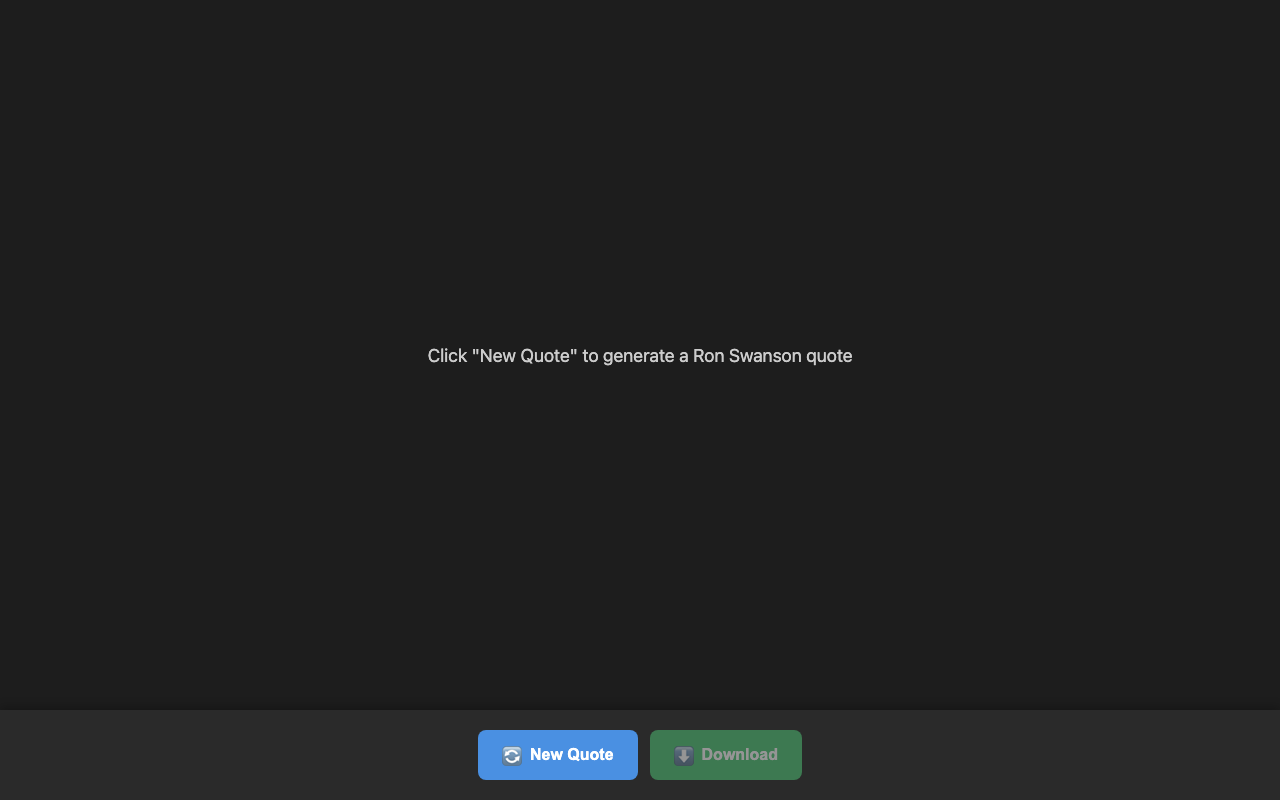
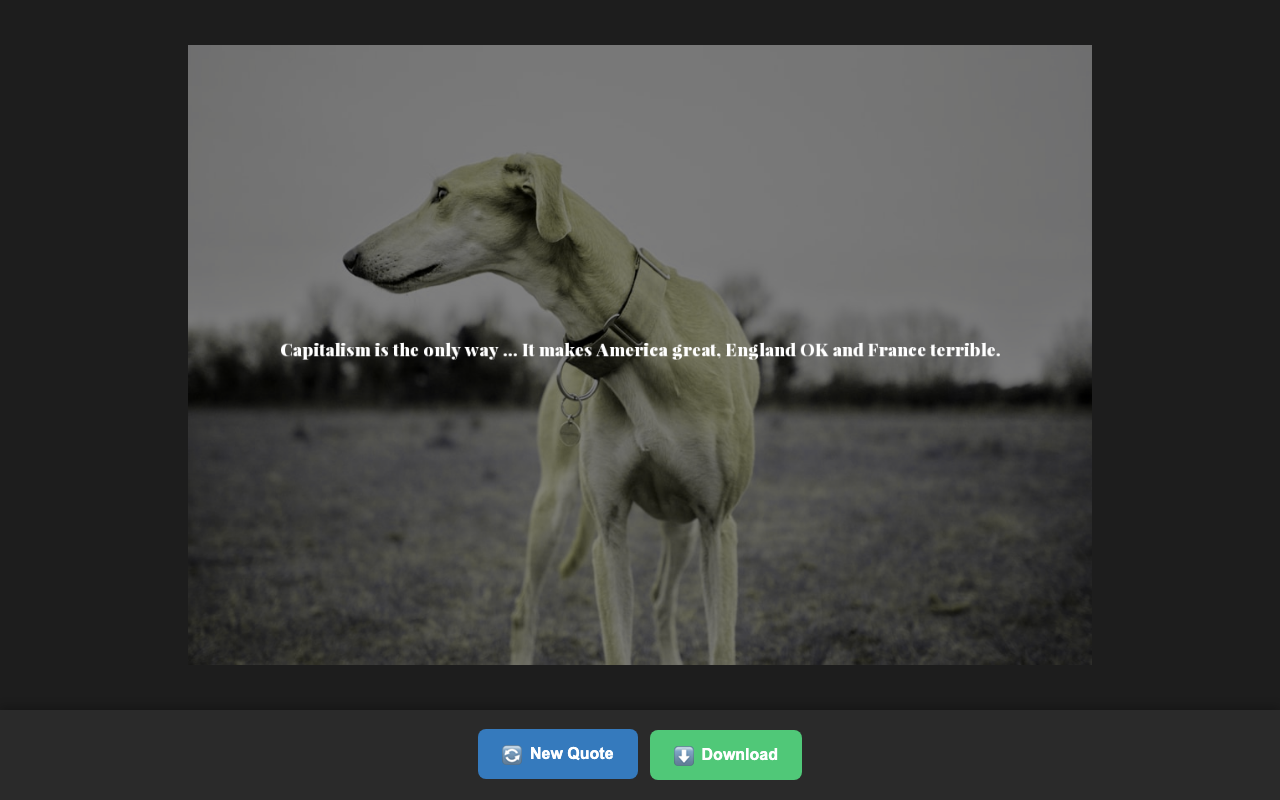
Update screenshot script to capture projects in action
- Py-Ron: Click generate and wait for Ron Swanson quote to load
- AD&D: Use narrower 900px viewport to eliminate whitespace
- Add console logging for debugging
- Increase timeouts for AWS-based generation

Py-Ron and AD&D screenshots now show actual content.

Note: A Box of Mac and Cheese backend (AWS API) not yet deployed,
so generation doesn't work - screenshot shows empty state.

diff --git a/scripts/capture-screenshots.js b/scripts/capture-screenshots.js
@@ -13,22 +13,67 @@ const projects = [
     name: 'thirsty',
     url: 'https://thirsty.onigiri.zone',
     filename: 'thirsty.png',
+    viewport: { width: 1280, height: 800 },
+    async setup(page) {
+      await page.waitForTimeout(2000);
+    },
   },
   {
     name: 'py-ron',
     url: 'https://onigiri.zone/py-ron/',
     filename: 'py-ron.png',
-    waitFor: 'button#refresh-btn',
+    viewport: { width: 1280, height: 800 },
+    async setup(page) {
+      // Wait for the button and click it to generate an image
+      await page.waitForSelector('button#refresh-btn');
+      console.log('  Generating Ron Swanson quote...');
+      await page.click('button#refresh-btn');
+
+      // Wait for the image to appear (the img element becomes visible)
+      await page.waitForSelector('#image', { state: 'visible', timeout: 30000 });
+      console.log('  Quote generated!');
+
+      // Give it a moment to fully render
+      await page.waitForTimeout(1000);
+    },
   },
   {
     name: 'a-box-of-mac-and-cheese',
     url: 'https://onigiri.zone/a-box-of-mac-and-cheese/',
     filename: 'a-box-of-mac-and-cheese.png',
+    viewport: { width: 1280, height: 800 },
+    async setup(page) {
+      // Listen for console messages to debug
+      page.on('console', msg => console.log('  Browser console:', msg.text()));
+
+      // Wait for the generate button and click it
+      await page.waitForSelector('button:has-text("Generate")');
+      console.log('  Generating book cover...');
+      await page.click('button:has-text("Generate")');
+
+      try {
+        // Wait for the image to appear (when status text hides and image shows)
+        // Book cover generation uses AWS Bedrock which can take 30-60 seconds
+        await page.waitForSelector('#image', { state: 'visible', timeout: 120000 });
+        console.log('  Book cover generated!');
+
+        // Give it a moment to fully render
+        await page.waitForTimeout(1000);
+      } catch (error) {
+        // If generation fails/times out, just take a screenshot of the current state
+        console.log('  Generation timed out, capturing current state');
+        await page.waitForTimeout(2000);
+      }
+    },
   },
   {
     name: 'adnd',
     url: 'https://onigiri.zone/cleric/sheet.html',
     filename: 'adnd.png',
+    viewport: { width: 900, height: 800 },  // Narrower to eliminate whitespace
+    async setup(page) {
+      await page.waitForTimeout(2000);
+    },
   },
 ];
 
@@ -41,23 +86,23 @@ async function captureScreenshots() {
   }
 
   const browser = await chromium.launch();
-  const context = await browser.newContext({
-    viewport: { width: 1280, height: 800 },
-  });
 
   for (const project of projects) {
     console.log(`Capturing screenshot of ${project.name}...`);
+
+    // Create a new context with project-specific viewport
+    const context = await browser.newContext({
+      viewport: project.viewport,
+    });
+
     const page = await context.newPage();
 
     try {
       await page.goto(project.url, { waitUntil: 'networkidle' });
 
-      // Wait for specific element if specified
-      if (project.waitFor) {
-        await page.waitForSelector(project.waitFor, { timeout: 5000 });
-      } else {
-        // Wait a bit for any animations/dynamic content
-        await page.waitForTimeout(2000);
+      // Run project-specific setup (e.g., click generate button)
+      if (project.setup) {
+        await project.setup(page);
       }
 
       const screenshotPath = path.join(outputDir, project.filename);
@@ -66,7 +111,7 @@ async function captureScreenshots() {
     } catch (error) {
       console.error(`✗ Failed to capture ${project.name}:`, error.message);
     } finally {
-      await page.close();
+      await context.close();
     }
   }
 
